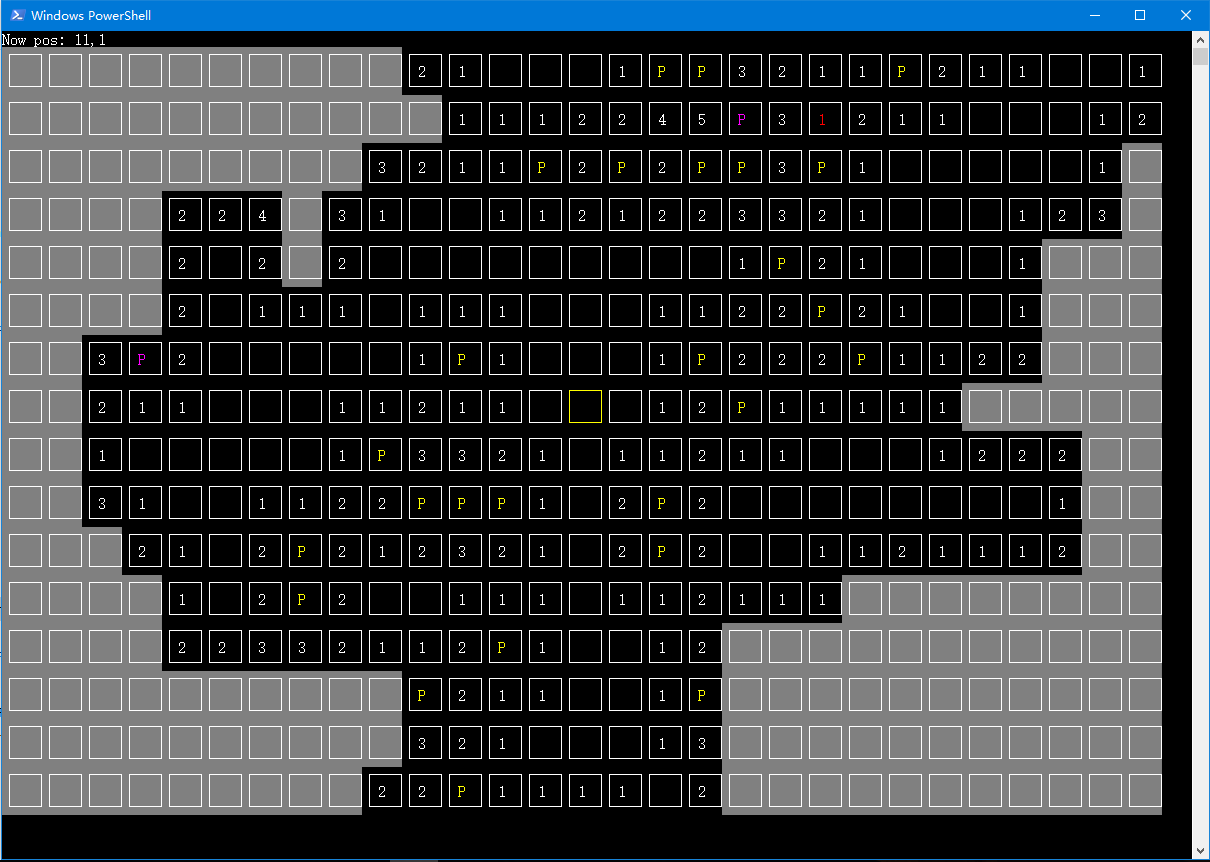
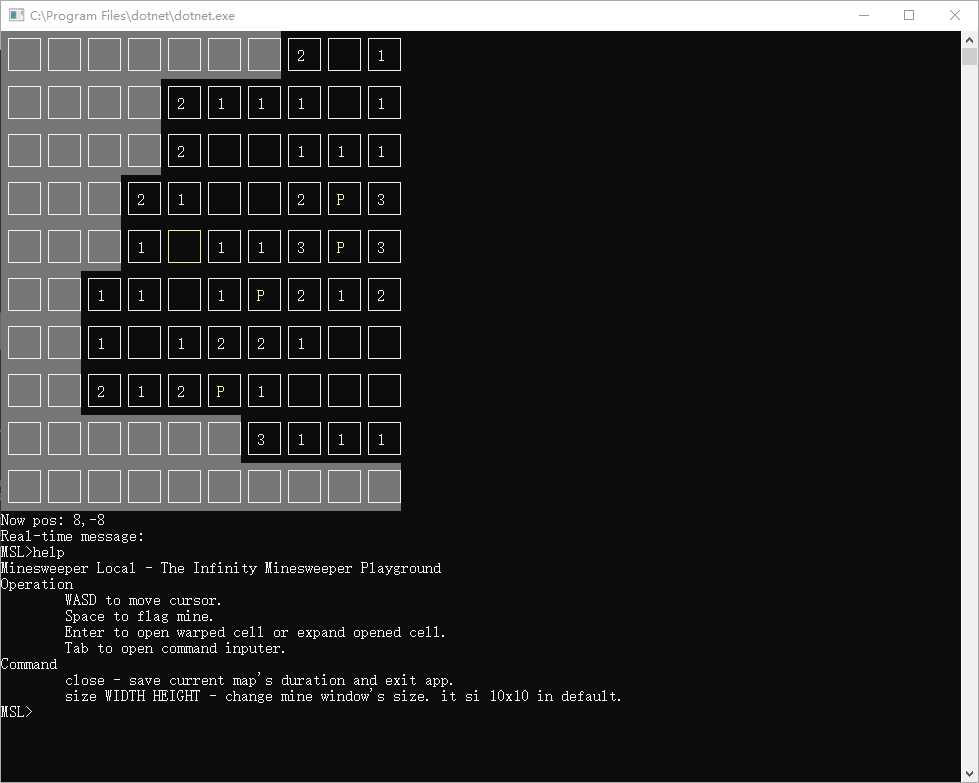
Optimize draw function and etc...
- Optimize draw function to avoid that highly frequent flash do harm to player's eyes.
- Delete auto width and height.
- Add paramater to change display size.
- Rearrange code struction.
- Update readme and screenshot

diff --git a/Program.cs b/Program.cs
@@ -34,19 +34,35 @@ namespace MinesweeperLocal {
 
             bool isCanceled = false;
             var output = new MapOutput();
+            Console.Clear();    //clear help of startup screen
+
+            //declare width and height
+            int width = 10;
+            int height = 10;
+
             map.Refresh += () => {
                 if (!isCanceled) {
-                    Console.Clear();
-                    //now pos
-                    Console.WriteLine("Now pos: " + map.UserPos.ToString());
-                    int w = Console.BufferWidth / 5;
-                    int h = 16; //Console.BufferHeight / 3;
+                    var lineWidth = Console.BufferWidth;
+                    //reset position
+                    Console.SetCursorPosition(0, 0);
+                    int w = width;
+                    int h = height;
                     Point c = map.UserPos;
 
                     //map struct
                     var p = new Point(c.X - (w % 2 == 0 ? w / 2 - 1 : (w - 1) / 2), c.Y - (h % 2 == 0 ? h / 2 - 1 : (h - 1) / 2));
                     output.Output(map.GetCellData(p, w, h), c - p);
 
+                    //flush line
+                    Console.SetCursorPosition(0, height * 3);
+                    for (int i = 0; i < lineWidth; i++) Console.Write(" ");
+                    Console.SetCursorPosition(0, height * 3 + 1);
+                    for (int i = 0; i < lineWidth; i++) Console.Write(" ");
+
+                    //write data
+                    Console.SetCursorPosition(0, height * 3);
+                    //now pos
+                    Console.WriteLine("Now pos: " + map.UserPos.ToString());
                     //runtime message
                     Console.WriteLine($"Real-time message: {runtimeMsg}");
                     runtimeMsg = "";
@@ -58,45 +74,85 @@ namespace MinesweeperLocal {
 
             //init
             map.Initialize();
-
+            bool previousIsCommand = false;
             while (true) {
                 var result = Console.ReadKey(true);
 
                 switch (result.Key) {
+                    //=======================================================================
                     case ConsoleKey.W:
+                        if (previousIsCommand) { Console.Clear(); previousIsCommand = false; }
                         map.UserPos = map.UserPos + new Point(0, -1);
                         break;
                     case ConsoleKey.A:
+                        if (previousIsCommand) { Console.Clear(); previousIsCommand = false; }
                         map.UserPos = map.UserPos + new Point(-1, 0);
                         break;
                     case ConsoleKey.S:
+                        if (previousIsCommand) { Console.Clear(); previousIsCommand = false; }
                         map.UserPos = map.UserPos + new Point(0, 1);
                         break;
                     case ConsoleKey.D:
+                        if (previousIsCommand) { Console.Clear(); previousIsCommand = false; }
                         map.UserPos = map.UserPos + new Point(1, 0);
                         break;
                     case ConsoleKey.Enter:
+                        if (previousIsCommand) { Console.Clear(); previousIsCommand = false; }
                         map.Press();
                         break;
                     case ConsoleKey.Spacebar:
+                        if (previousIsCommand) { Console.Clear(); previousIsCommand = false; }
                         map.Flag();
+                        break;
+                    //===========================================================================
+                    case ConsoleKey.Tab:
+                        if (!previousIsCommand) previousIsCommand = true;
+                        isCanceled = true;
+                        Console.Write(@"MSL>");
+                        var cache = Console.ReadLine();
+                        if (cache != "") {
+                            var cache_sp = cache.Split();
+
+                            switch (cache_sp[0]) {
+                                case "close":
+                                    map.Close();
+                                    goto app_exit;
+                                case "size":
+                                    try {
+                                        int x = int.Parse(cache_sp[1]);
+                                        int y = int.Parse(cache_sp[2]);
+                                        if (x <= 0 || y <= 0) throw new ArgumentException();
+                                        width = x;
+                                        height = y;
+                                        Console.WriteLine("Do some operation to apply new size.");
+                                    } catch (Exception) {
+                                        Console.WriteLine("Error parameter!");
+                                    }
+                                    break;
+                                case "help":
+                                    Console.WriteLine("Minesweeper Local - The Infinity Minesweeper Playground");
+                                    Console.WriteLine("Operation");
+                                    Console.WriteLine("\tWASD to move cursor.");
+                                    Console.WriteLine("\tSpace to flag mine.");
+                                    Console.WriteLine("\tEnter to open warped cell or expand opened cell.");
+                                    Console.WriteLine("\tTab to open command inputer.");
+                                    Console.WriteLine("Command");
+                                    Console.WriteLine("\tclose - save current map's duration and exit app.");
+                                    Console.WriteLine("\tsize WIDTH HEIGHT - change mine window's size. it is 10x10 in default.");
+                                    break;
+                                default:
+                                    break;
+                            }
+                        }
+
+                        isCanceled = false;
                         break;
                 }
 
-                if (result.Key == ConsoleKey.Tab) {
-                    isCanceled = true;
-                    Console.Write(@"MSL>");
-                    var cache = Console.ReadLine();
-
-                    if (cache == "close") {
-                        map.Close();
-                        break;
-                    }
-
-                    isCanceled = false;
-
-                }//else pass
             }
+
+            app_exit:
+            ;
 
         }
     }

diff --git a/README.md b/README.md
@@ -1,22 +1,35 @@
 # MinesweeperLocal
-This is a prepared project for MinesweeperOnline.
+
+The infinity minesweeper playground.
 
 ## Summary
-Although this is a prepared project for MinesweeperOnline, it can be played in some ways.  
+
+Although this is a prepared project for MinesweeperOnline, it can be played in some ways.
 
 **WARNING**  
 This software's working method might **totally** damage your eyesight. Don't play too long.  
+(EDIT: We have used new draw function now. And this app will not flash screen when you moving or doing some operations. But I still suggest that you shouldn't play it too long.)
 
 ## Running game
-Open console at root folder and run ```dotnet run``` to run this game.  
-This game provide some choices for creating new map or loading stored map. But this application don't provide any interface to change map's default difficulty. So if you want to change map's difficulty, you should modify code by yourself. Some typical difficulty's value has been created in class Map. You can use it directly. The code about generating map's difficulty is defined in Program.cs. You can see it obviously.  
-If you want to change specific map's difficulty. You should read code to know minesweeper.dat's structure and modify it directly.  
-Also, this app don't provide and options to change minesweeper's map's location. It will be forced to be stored at root folder.\(File .gitignore has ignored all game's file\)  
+
+Open console at root folder and run ```dotnet run``` to run this game.
+
+This game provide some choices for creating new map or loading stored map. But this application don't provide any interface to change map's default difficulty. So if you want to change map's difficulty, you should modify code by yourself. Some typical difficulty's value has been created in class Map. You can use it directly. The code about generating map's difficulty is defined in Program.cs. You can see it obviously.
+
+If you want to change specific map's difficulty. You should read code to know minesweeper.dat's structure and modify it directly.
+
+Also, this app don't provide and options to change minesweeper's map's location. It will be forced to be stored at root folder.\(File .gitignore has ignored all game's file\)
 
 ## How to play it
-Use WASD to control the cursor. The cursor's postion is signed by a yellow cell.  
-Use Enter to open cell and use Space to set/delete flag from cell.  
-When you touch mine, you will alive and error mine will be marked by red cell.  
+
+Use WASD to control the cursor. The cursor's postion is signed by a yellow cell.
+
+Use Enter to open cell and use Space to set/delete flag from cell.
+
+Use Tab to open command inputer. Use `size` command to change display size and `close` command to exit game normally.
+
+This game will info you that you do a wrong things(touch a mine or flag a blank cell). This is not like traditional minesweeper. Please mind this. I set this method because this is not serve for traditional minesweeper. This app is serve for my Minesweeper Online project and it don't need the function, that touching mine will kill your gaming tour. (This function is uncomperhensible and ugle now. But the following functions, such as combo, will change this situation).
 
 ## Screenshot
+
 ![screenshot](screenshot.png)
